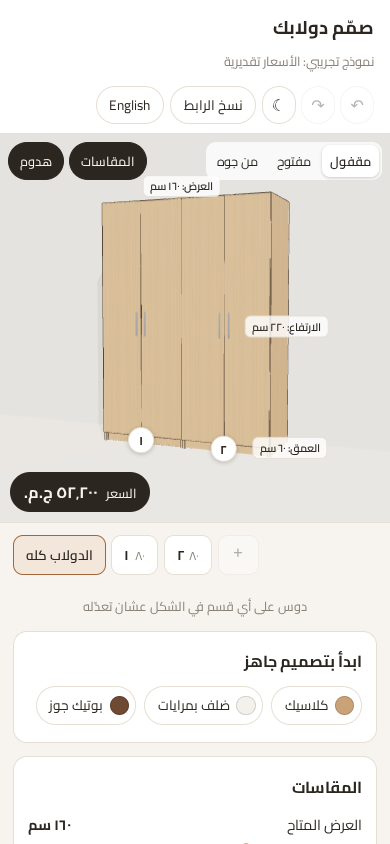
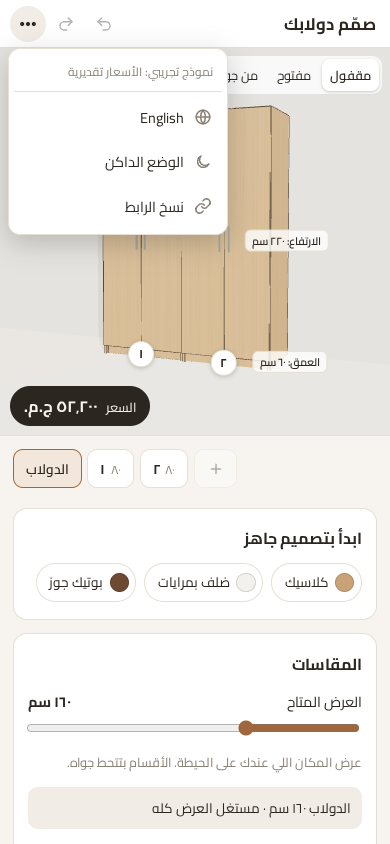
Compact header and per-section menus
- Header is one row: title, undo, redo and a ⋯ menu (language, dark mode,
  copy link, proof-of-concept note)
- The selected section's tab has a ⋮ menu: move left/right, duplicate, remove
- SVG icons so they render the same on every device
- Tap hint only on desktop; shorter Wardrobe tab label

diff --git a/poc/src/App.tsx b/poc/src/App.tsx
@@ -12,6 +12,8 @@ import { makeT, type Lang, type T } from './i18n';
 import { Scene, type ViewMode } from './three/Scene';
 import { SWATCHES } from './three/materials';
 import { Segmented, Slider, Stepper, Toggle } from './ui/controls';
+import { Menu, type MenuItem } from './ui/Menu';
+import { Icon } from './ui/icons';
 
 const fit = (d: Partial<Design>) => fitToSpace(sanitize(d)).design;
 const starterDesign = (id: string) => fit(structuredClone(STARTERS.find((s) => s.id === id)!.design));
@@ -55,8 +57,7 @@ export default function App() {
   const [mode, setMode] = useState<ViewMode>('closed');
   const [showDims, setShowDims] = useState(true);
   const [showClothes, setShowClothes] = useState(true);
-  const [copied, setCopied] = useState(false);
-  const [toast, setToast] = useState<{ changes: Change[]; id: number } | null>(null);
+  const [toast, setToast] = useState<{ changes: Change[]; text?: string; undo: boolean; id: number } | null>(null);
   const { dark, toggle: toggleDark } = useDarkMode();
   const panelRef = useRef<HTMLElement>(null);
 
@@ -89,7 +90,7 @@ export default function App() {
     return () => removeEventListener('keydown', onKey);
   }, [hist]);
 
-  const notify = (changes: Change[]) => { if (changes.length) setToast({ changes, id: Date.now() }); };
+  const notify = (changes: Change[]) => { if (changes.length) setToast({ changes, undo: true, id: Date.now() }); };
   const commit = (d: Design, group?: string) => hist.commit(d, group);
   const setSections = (sections: Section[]) => commit({ ...design, sections });
   const updateSection = (i: number, patch: Partial<Section>) =>
@@ -137,24 +138,31 @@ export default function App() {
   };
   const copyLink = async () => {
     await navigator.clipboard?.writeText(location.href).catch(() => {});
-    setCopied(true);
-    setTimeout(() => setCopied(false), 1500);
+    setToast({ changes: [], text: t.t('copied'), undo: false, id: Date.now() });
   };
+  const sectionMenu = (i: number): MenuItem[] => [
+    { icon: <Icon name="left" />, label: t.t('moveLeft'), onSelect: () => moveSection(i, -1), disabled: i === 0 },
+    { icon: <Icon name="right" />, label: t.t('moveRight'), onSelect: () => moveSection(i, 1), disabled: i === design.sections.length - 1 },
+    { icon: <Icon name="copy" />, label: t.t('duplicate'), onSelect: () => addSection(i), disabled: !canAddSection(design) },
+    { icon: <Icon name="trash" />, label: t.t('remove'), onSelect: () => removeSection(i), disabled: design.sections.length === 1, danger: true },
+  ];
   const finishLabel = (f: string) => (f === 'body' ? t.t(`mat.${design.material}`) : t.t(`finishName.${f}`));
 
   return (
     <div className="app">
       <header className="topbar">
-        <div>
-          <h1>{t.t('title')}</h1>
-          <p className="muted">{t.t('poc')}</p>
-        </div>
+        <h1>{t.t('title')}</h1>
         <div className="topbar-actions">
-          <button type="button" className="icon" onClick={hist.undo} disabled={!hist.canUndo} title={t.t('undo')} aria-label={t.t('undo')}>↶</button>
-          <button type="button" className="icon" onClick={hist.redo} disabled={!hist.canRedo} title={t.t('redo')} aria-label={t.t('redo')}>↷</button>
-          <button type="button" className="icon" onClick={toggleDark} title={dark ? t.t('lightMode') : t.t('darkMode')} aria-label={dark ? t.t('lightMode') : t.t('darkMode')}>{dark ? '☀' : '☾'}</button>
-          <button type="button" className="ghost" onClick={copyLink}>{copied ? t.t('copied') : t.t('copyLink')}</button>
-          <button type="button" className="ghost" onClick={() => setLang(lang === 'ar' ? 'en' : 'ar')}>{t.t('lang')}</button>
+          <button type="button" className="icon" onClick={hist.undo} disabled={!hist.canUndo} title={t.t('undo')} aria-label={t.t('undo')}><Icon name="undo" /></button>
+          <button type="button" className="icon" onClick={hist.redo} disabled={!hist.canRedo} title={t.t('redo')} aria-label={t.t('redo')}><Icon name="redo" /></button>
+          <Menu
+            label={t.t('more')} trigger={<Icon name="moreH" size={20} />} note={t.t('poc')}
+            items={[
+              { icon: <Icon name="globe" />, label: t.t('lang'), onSelect: () => setLang(lang === 'ar' ? 'en' : 'ar') },
+              { icon: <Icon name={dark ? 'sun' : 'moon'} />, label: dark ? t.t('lightMode') : t.t('darkMode'), onSelect: toggleDark },
+              { icon: <Icon name="link" />, label: t.t('copyLink'), onSelect: copyLink },
+            ]}
+          />
         </div>
       </header>
 
@@ -184,16 +192,26 @@ export default function App() {
           <button type="button" className={selected === null ? 'tab on' : 'tab'} onClick={() => select(null)} dir="auto">
             {t.t('wardrobeTab')}
           </button>
-          {design.sections.map((s, i) => (
-            <button key={s.id} type="button" className={selected === i ? 'tab on' : 'tab'} onClick={() => select(i)}>
-              <bdi><strong>{t.num(i + 1)}</strong></bdi> <bdi className="muted">{t.num(s.width)}</bdi>
-            </button>
-          ))}
+          {design.sections.map((s, i) => {
+            const label = (
+              <>
+                <bdi><strong>{t.num(i + 1)}</strong></bdi> <bdi className="muted">{t.num(s.width)}</bdi>
+              </>
+            );
+            return selected === i ? (
+              <div key={s.id} className="tab on with-menu">
+                <span className="tab-label">{label}</span>
+                <Menu label={t.t('sectionOptions', { n: i + 1 })} trigger={<Icon name="moreV" size={16} />} className="tab-menu" items={sectionMenu(i)} />
+              </div>
+            ) : (
+              <button key={s.id} type="button" className="tab" onClick={() => select(i)}>{label}</button>
+            );
+          })}
           <button
             type="button" className="tab add" onClick={() => addSection()} disabled={!canAddSection(design)}
             title={t.t('addSection')} aria-label={t.t('addSection')}
           >
-            +
+            <Icon name="plus" size={16} />
           </button>
         </nav>
 
@@ -206,7 +224,6 @@ export default function App() {
           <SectionEditor
             key={design.sections[selected].id} design={design} i={selected} t={t}
             update={(patch) => updateSection(selected, patch)} applyToAll={(keys) => applyToAll(selected, keys)}
-            duplicate={() => addSection(selected)} remove={() => removeSection(selected)} move={(dir) => moveSection(selected, dir)}
           />
         )}
 
@@ -269,12 +286,13 @@ export default function App() {
       {toast && (
         <div className="toast" key={toast.id} role="status">
           <span>
+            {toast.text}
             {toast.changes.slice(0, 2).map((c, k) => (
               <bdi key={k} className="toast-item">{c.type === 'narrowed' ? t.t('change.narrowed', c) : t.t('change.removed', c)}</bdi>
             ))}
             {toast.changes.length > 2 && <bdi className="toast-item">{t.t('change.more', { n: toast.changes.length - 2 })}</bdi>}
           </span>
-          <button type="button" onClick={() => { hist.undo(); setToast(null); }}>{t.t('undo')}</button>
+          {toast.undo && <button type="button" onClick={() => { hist.undo(); setToast(null); }}>{t.t('undo')}</button>}
         </div>
       )}
     </div>
@@ -293,7 +311,7 @@ function WardrobeEditor(props: {
   const update = (patch: Partial<Design>, group?: string) => commit({ ...design, ...patch }, group);
   return (
     <>
-      <p className="muted hint">{t.t('tapHint')}</p>
+      <p className="muted hint desktop-only">{t.t('tapHint')}</p>
       <section>
         <h2>{t.t('starters')}</h2>
         <div className="starters">
@@ -372,9 +390,8 @@ function WardrobeEditor(props: {
 
 function SectionEditor(props: {
   design: Design; i: number; t: T; update: (patch: Partial<Section>) => void; applyToAll: (keys: (keyof Section)[]) => void;
-  duplicate: () => void; remove: () => void; move: (dir: -1 | 1) => void;
 }) {
-  const { design, i, t, update, applyToAll, duplicate, remove, move } = props;
+  const { design, i, t, update, applyToAll } = props;
   const s = design.sections[i];
   const n = design.sections.length;
   const allowed = allowedWidths(design, i);
@@ -386,12 +403,6 @@ function SectionEditor(props: {
       <section>
         <div className="section-head">
           <h2>{t.t('section', { n: i + 1 })} <bdi className="sub">{t.num(s.width)} {t.t('cm')}</bdi></h2>
-        </div>
-        <div className="actions" dir="ltr">
-          <button type="button" onClick={() => move(-1)} disabled={i === 0} title={t.t('moveLeft')} aria-label={t.t('moveLeft')}>←</button>
-          <button type="button" onClick={() => move(1)} disabled={i === n - 1} title={t.t('moveRight')} aria-label={t.t('moveRight')}>→</button>
-          <button type="button" onClick={duplicate} disabled={!canAddSection(design)}>{t.t('duplicate')}</button>
-          <button type="button" className="danger" onClick={remove} disabled={n === 1}>{t.t('remove')}</button>
         </div>
         <div className="field">
           <span>{t.t('sectionWidth')}</span>

diff --git a/poc/src/styles.css b/poc/src/styles.css
@@ -39,7 +39,7 @@
 body { margin: 0; background: var(--bg); }
 button { font: inherit; color: inherit; cursor: pointer; }
 button:disabled { opacity: 0.35; cursor: not-allowed; }
-h1 { font-size: 1.15rem; margin: 0; }
+h1 { font-size: 1.05rem; margin: 0; white-space: nowrap; overflow: hidden; text-overflow: ellipsis; }
 h2 { font-size: 1rem; margin: 0 0 0.6rem; }
 p { margin: 0.3rem 0; }
 .muted { color: var(--muted); font-size: 0.8rem; }
@@ -47,12 +47,31 @@ p { margin: 0.3rem 0; }
 .app { min-height: 100dvh; }
 
 .topbar {
-  display: flex; align-items: center; justify-content: space-between; gap: 0.5rem; flex-wrap: wrap;
-  padding: 0.6rem 1rem; background: var(--card); border-block-end: 1px solid var(--line);
+  display: flex; align-items: center; justify-content: space-between; gap: 0.5rem;
+  padding: 0.35rem 0.6rem 0.35rem 0.9rem; background: var(--card); border-block-end: 1px solid var(--line);
 }
-.topbar-actions { display: flex; gap: 0.35rem; flex-wrap: wrap; }
-.ghost, .icon { background: none; border: 1px solid var(--line); border-radius: 999px; padding: 0.3rem 0.8rem; font-size: 0.85rem; }
-.icon { width: 2.1rem; padding: 0.3rem 0; font-size: 1rem; line-height: 1; }
+[dir='rtl'] .topbar { padding: 0.35rem 0.9rem 0.35rem 0.6rem; }
+.topbar-actions { display: flex; gap: 0.15rem; flex: none; }
+.icon {
+  width: 2.25rem; height: 2.25rem; border: 0; background: none; border-radius: 50%; padding: 0;
+  font-size: 1.15rem; line-height: 1; display: inline-grid; place-items: center;
+}
+.icon:not(:disabled):hover, .icon[aria-expanded='true'] { background: var(--soft); }
+
+.menu {
+  position: fixed; z-index: 20; background: var(--card); border: 1px solid var(--line); border-radius: 12px;
+  box-shadow: 0 8px 28px #0003; padding: 0.3rem; display: grid; animation: menu-in 0.12s ease-out;
+}
+.menu button {
+  display: flex; align-items: center; gap: 0.6rem; border: 0; background: none; border-radius: 8px;
+  padding: 0.55rem 0.6rem; font-size: 0.9rem; text-align: start;
+}
+.menu button:not(:disabled):hover, .menu button:focus-visible { background: var(--soft); outline: none; }
+.menu button.danger { color: #d0463a; }
+.menu-icon { width: 1.2rem; display: inline-grid; place-items: center; flex: none; color: var(--muted); }
+.menu button.danger .menu-icon { color: inherit; }
+.menu-note { margin: 0; padding: 0.4rem 0.6rem 0.5rem; font-size: 0.75rem; color: var(--muted); border-block-end: 1px solid var(--line); margin-block-end: 0.2rem; }
+@keyframes menu-in { from { transform: translateY(-4px); opacity: 0; } }
 
 .viewer {
   position: sticky; top: 0; z-index: 2; height: var(--viewer-h); background: var(--viewer);
@@ -88,6 +107,7 @@ p { margin: 0.3rem 0; }
 .panel { padding: 0.8rem; display: grid; grid-template-columns: minmax(0, 1fr); grid-auto-rows: max-content; gap: 0.8rem; padding-block-end: 5rem; min-width: 0; scroll-margin-top: var(--viewer-h); }
 .panel > section { background: var(--card); border: 1px solid var(--line); border-radius: var(--radius); padding: 0.9rem; }
 .hint { margin: 0; text-align: center; }
+@media (max-width: 899px) { .desktop-only { display: none; } }
 
 .strip {
   display: flex; gap: 0.35rem; overflow-x: auto; position: sticky; top: var(--viewer-h); z-index: 1;
@@ -99,7 +119,14 @@ p { margin: 0.3rem 0; }
 }
 .tab .muted { font-size: 0.75rem; }
 .tab.on { border-color: var(--accent); background: var(--accent-soft); font-weight: 600; }
-.tab.add { font-size: 1.1rem; line-height: 1; padding-inline: 0.9rem; }
+.tab.add { padding-inline: 0.8rem; display: inline-grid; place-items: center; }
+.tab.with-menu { padding-block: 0; padding-inline-end: 0.1rem; align-items: center; }
+.tab-label { display: inline-flex; align-items: baseline; gap: 0.35rem; padding-block: 0.35rem; }
+.tab-menu {
+  width: 1.8rem; height: 1.8rem; border: 0; background: none; border-radius: 50%; padding: 0; font-size: 1.05rem;
+  line-height: 1; display: inline-grid; place-items: center; font-weight: 700;
+}
+.tab-menu:hover, .tab-menu[aria-expanded='true'] { background: var(--soft); }
 
 .segmented { display: flex; background: var(--soft); border-radius: 10px; padding: 3px; gap: 3px; flex-wrap: wrap; }
 .segmented button { flex: 1; border: 0; background: none; border-radius: 8px; padding: 0.45rem 0.6rem; font-size: 0.9rem; white-space: nowrap; }
@@ -125,12 +152,10 @@ p { margin: 0.3rem 0; }
 .stepper output { min-width: 1.2rem; text-align: center; font-weight: 700; }
 .field { display: grid; gap: 0.3rem; margin-block-start: 0.6rem; font-size: 0.85rem; }
 
+.section-head { display: flex; align-items: center; justify-content: space-between; margin-block: -0.3rem 0.2rem; }
 .section-head h2 { margin: 0; }
 .section-head .sub { color: var(--muted); font-weight: 400; margin-inline-start: 0.3rem; }
 .toast-item + .toast-item::before { content: ' · '; }
-.actions { display: flex; gap: 0.4rem; margin-block: 0.6rem; flex-wrap: wrap; }
-.actions button { border: 1px solid var(--line); background: var(--card); border-radius: 8px; padding: 0.3rem 0.7rem; font-size: 0.85rem; }
-.actions .danger { color: #c0392b; margin-inline-start: auto; }
 
 .accessory { display: flex; align-items: center; justify-content: space-between; gap: 0.5rem; margin-block: 0.4rem; flex-wrap: wrap; }
 .toggle { display: flex; align-items: center; gap: 0.6rem; border: 0; background: none; padding: 0.2rem 0; font-size: 0.9rem; }

diff --git a/poc/src/ui/Menu.tsx b/poc/src/ui/Menu.tsx
@@ -1,0 +1,73 @@
+import { useEffect, useRef, useState, type ReactNode } from 'react';
+import { createPortal } from 'react-dom';
+
+export interface MenuItem {
+  label: string;
+  icon?: ReactNode;
+  onSelect: () => void;
+  disabled?: boolean;
+  danger?: boolean;
+}
+
+const WIDTH = 220;
+
+/**
+ * A "⋯"/"⋮" button with a dropdown. The dropdown is portalled to <body> with fixed positioning so it is
+ * never clipped by scrolling containers (like the section strip).
+ */
+export function Menu(props: { label: string; trigger: ReactNode; items: MenuItem[]; note?: string; className?: string }) {
+  const [rect, setRect] = useState<DOMRect | null>(null);
+  const btn = useRef<HTMLButtonElement>(null);
+  const menu = useRef<HTMLDivElement>(null);
+  const close = () => setRect(null);
+
+  useEffect(() => {
+    if (!rect) return;
+    const onDown = (e: PointerEvent) => {
+      const target = e.target as Node;
+      if (!menu.current?.contains(target) && !btn.current?.contains(target)) close();
+    };
+    const onKey = (e: KeyboardEvent) => e.key === 'Escape' && close();
+    addEventListener('pointerdown', onDown);
+    addEventListener('keydown', onKey);
+    addEventListener('resize', close);
+    addEventListener('scroll', close, true);
+    menu.current?.querySelector<HTMLButtonElement>('button:not(:disabled)')?.focus();
+    return () => {
+      removeEventListener('pointerdown', onDown);
+      removeEventListener('keydown', onKey);
+      removeEventListener('resize', close);
+      removeEventListener('scroll', close, true);
+    };
+  }, [rect]);
+
+  return (
+    <>
+      <button
+        ref={btn} type="button" className={props.className ?? 'icon'} aria-label={props.label} title={props.label}
+        aria-haspopup="menu" aria-expanded={!!rect}
+        onClick={(e) => { e.stopPropagation(); setRect(rect ? null : btn.current!.getBoundingClientRect()); }}
+      >
+        {props.trigger}
+      </button>
+      {rect && createPortal(
+        <div
+          ref={menu} className="menu" role="menu"
+          style={{ top: rect.bottom + 6, left: Math.min(Math.max(8, rect.right - WIDTH), innerWidth - WIDTH - 8), width: WIDTH }}
+        >
+          {props.note && <p className="menu-note">{props.note}</p>}
+          {props.items.map((item) => (
+            <button
+              key={item.label} type="button" role="menuitem" disabled={item.disabled} className={item.danger ? 'danger' : undefined}
+              onClick={() => { close(); item.onSelect(); }}
+            >
+              <span className="menu-icon" aria-hidden>{item.icon}</span>
+              {item.label}
+            </button>
+          ))}
+        </div>,
+        document.body,
+      )}
+    </>
+  );
+}

diff --git a/poc/src/ui/icons.tsx b/poc/src/ui/icons.tsx
@@ -1,0 +1,29 @@
+// Small inline SVG icons, so they look the same on every phone (no dependence on emoji fonts).
+const PATHS = {
+  undo: <><path d="M9 14 4 9l5-5" /><path d="M4 9h10.5a5.5 5.5 0 0 1 0 11H11" /></>,
+  redo: <><path d="m15 14 5-5-5-5" /><path d="M20 9H9.5a5.5 5.5 0 0 0 0 11H13" /></>,
+  moreH: <><circle cx="5" cy="12" r="1.4" fill="currentColor" /><circle cx="12" cy="12" r="1.4" fill="currentColor" /><circle cx="19" cy="12" r="1.4" fill="currentColor" /></>,
+  moreV: <><circle cx="12" cy="5" r="1.4" fill="currentColor" /><circle cx="12" cy="12" r="1.4" fill="currentColor" /><circle cx="12" cy="19" r="1.4" fill="currentColor" /></>,
+  globe: <><circle cx="12" cy="12" r="9" /><path d="M3 12h18" /><path d="M12 3a14 14 0 0 1 0 18a14 14 0 0 1 0-18" /></>,
+  moon: <path d="M20 14.5A8 8 0 1 1 9.5 4a6.5 6.5 0 0 0 10.5 10.5z" />,
+  sun: <><circle cx="12" cy="12" r="4" /><path d="M12 2v2M12 20v2M4.9 4.9l1.4 1.4M17.7 17.7l1.4 1.4M2 12h2M20 12h2M4.9 19.1l1.4-1.4M17.7 6.3l1.4-1.4" /></>,
+  link: <><path d="M10 13a5 5 0 0 0 7.5.5l3-3a5 5 0 0 0-7-7l-1.7 1.7" /><path d="M14 11a5 5 0 0 0-7.5-.5l-3 3a5 5 0 0 0 7 7l1.7-1.7" /></>,
+  left: <><path d="M19 12H5" /><path d="m12 19-7-7 7-7" /></>,
+  right: <><path d="M5 12h14" /><path d="m12 5 7 7-7 7" /></>,
+  copy: <><rect x="9" y="9" width="12" height="12" rx="2" /><path d="M5 15H4a2 2 0 0 1-2-2V4a2 2 0 0 1 2-2h9a2 2 0 0 1 2 2v1" /></>,
+  trash: <><path d="M3 6h18" /><path d="M8 6V4h8v2" /><path d="m19 6-1 14H6L5 6" /></>,
+  plus: <path d="M12 5v14M5 12h14" />,
+};
+
+export type IconName = keyof typeof PATHS;
+
+export function Icon({ name, size = 18 }: { name: IconName; size?: number }) {
+  return (
+    <svg
+      width={size} height={size} viewBox="0 0 24 24" fill="none" stroke="currentColor" strokeWidth={2}
+      strokeLinecap="round" strokeLinejoin="round" aria-hidden focusable="false"
+    >
+      {PATHS[name]}
+    </svg>
+  );
+}

diff --git a/poc/src/i18n.ts b/poc/src/i18n.ts
@@ -6,8 +6,10 @@ const en = {
   poc: 'Proof of concept: prices are placeholders',
   lang: 'عربي',
   copyLink: 'Copy link',
-  copied: 'Copied!',
+  copied: 'Link copied',
   undo: 'Undo',
+  more: 'More',
+  sectionOptions: 'Section {n} options',
   redo: 'Redo',
   darkMode: 'Dark mode',
   lightMode: 'Light mode',
@@ -17,7 +19,7 @@ const en = {
   'starter.boutique': 'Walnut boutique',
   'starter.open': 'Open studio',
   'starter.kids': 'Kids room',
-  wardrobeTab: 'Whole wardrobe',
+  wardrobeTab: 'Wardrobe',
   addSection: 'Add section',
   tapHint: 'Tap a section in the 3D view to edit it',
   size: 'Size',
@@ -138,8 +140,10 @@ const ar: Dict = {
   poc: 'نموذج تجريبي: الأسعار تقديرية',
   lang: 'English',
   copyLink: 'نسخ الرابط',
-  copied: 'تم النسخ!',
+  copied: 'تم نسخ الرابط',
   undo: 'تراجع',
+  more: 'المزيد',
+  sectionOptions: 'خيارات القسم {n}',
   redo: 'إعادة',
   darkMode: 'الوضع الداكن',
   lightMode: 'الوضع الفاتح',
@@ -149,7 +153,7 @@ const ar: Dict = {
   'starter.boutique': 'بوتيك جوز',
   'starter.open': 'استوديو مفتوح',
   'starter.kids': 'أوضة أطفال',
-  wardrobeTab: 'الدولاب كله',
+  wardrobeTab: 'الدولاب',
   addSection: 'ضيف قسم',
   tapHint: 'دوس على أي قسم في الشكل عشان تعدّله',
   size: 'المقاسات',
